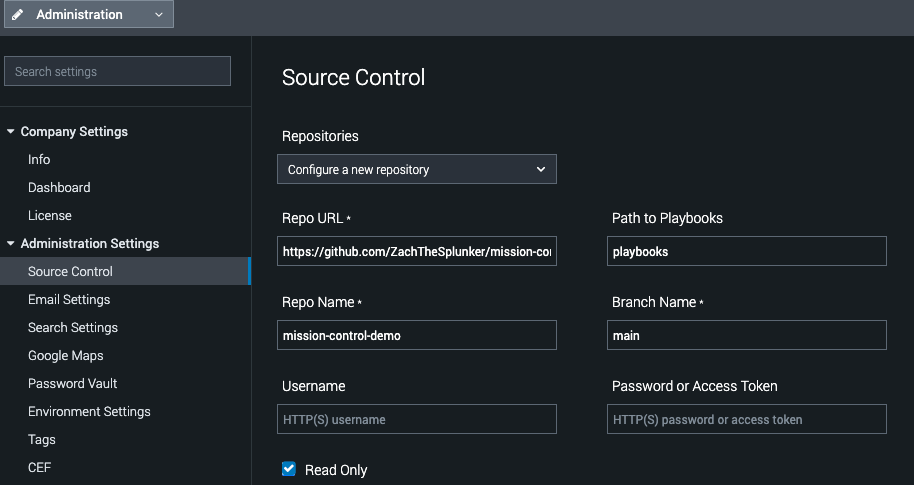
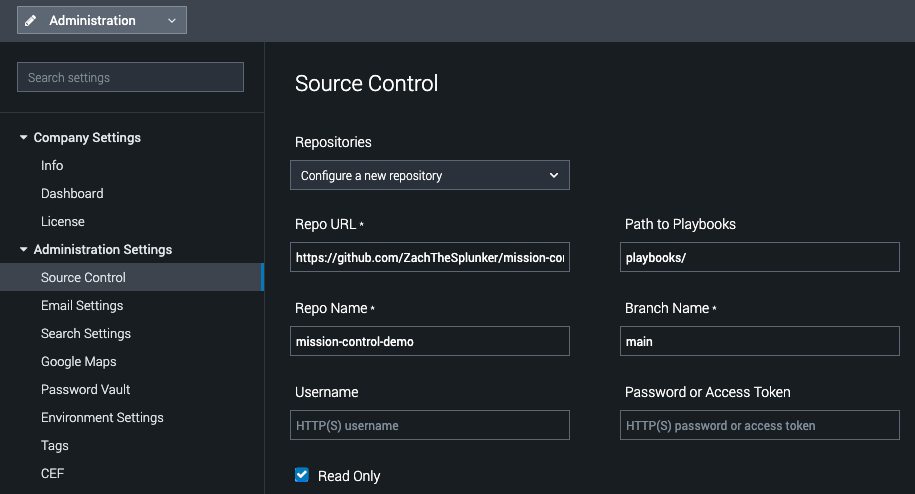
updated repo name

diff --git a/docs/start/index.md b/docs/start/index.md
@@ -17,11 +17,17 @@ https://github.com/ZachTheSplunker/mission-control-demo.git
 
 ||| Path to Playbooks
 ```
-playbooks
+playbooks/
 ```
 |||
 
 ||| Repo Name
+```
+mission-control-demo
+```
+|||
+
+||| Branch Name
 ```
 main
 ```
